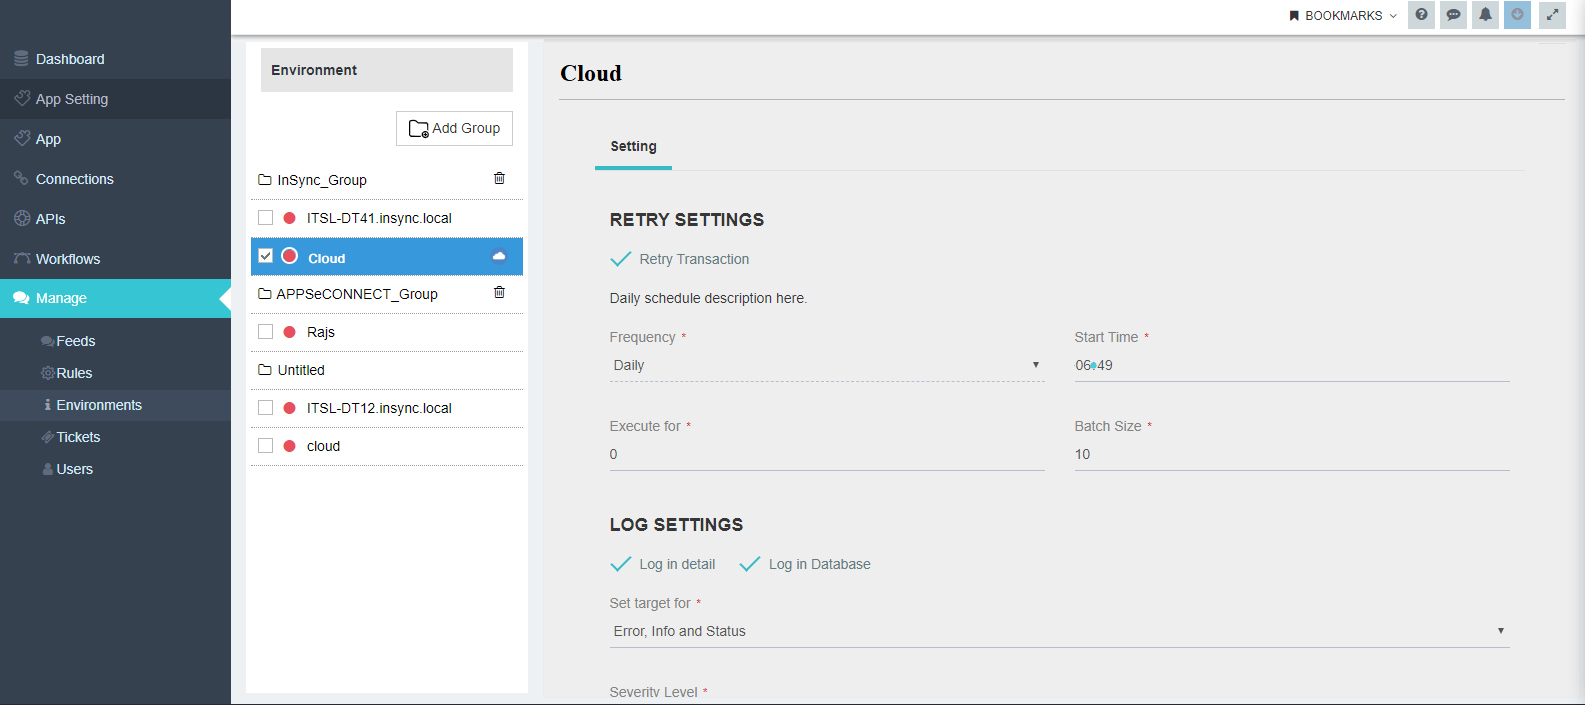
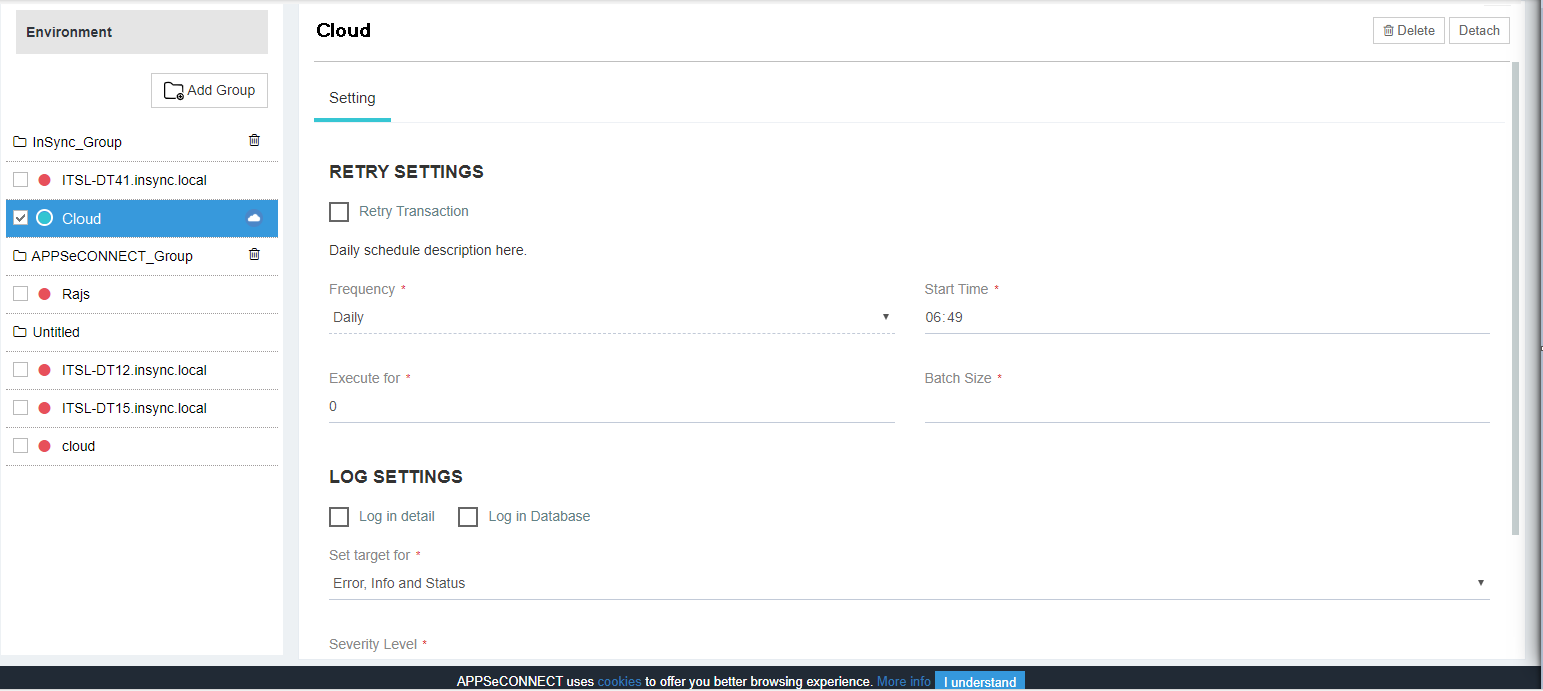
Updated environment page

diff --git a/_site/index.html b/_site/index.html
@@ -272,8 +272,8 @@
 <ul class="nav__items">
     
     
-    <li class="menu-item-" data-url="/connectors/overview-of-application-connectors/" data-jstree='{"icon":"fa fa-file-word-o"}'>
-        <a href="/connectors/overview-of-application-connectors/" onclick="selectTab('/connectors/overview-of-application-connectors/', event);" title="Go to Application">Application</a>
+    <li class="menu-item-" data-url="/connectors/Overview-of-Application-Connectors/" data-jstree='{"icon":"fa fa-file-word-o"}'>
+        <a href="/connectors/Overview-of-Application-Connectors/" onclick="selectTab('/connectors/Overview-of-Application-Connectors/', event);" title="Go to Application">Application</a>
         
         
         
@@ -286,8 +286,8 @@
     </li>
     
     
-    <li class="menu-item-" data-url="/connectors/magento2/" data-jstree='{"icon":"fa fa-gg"}'>
-        <a href="/connectors/magento2/" onclick="selectTab('/connectors/magento2/', event);" title="Go to Magento2">Magento2</a>
+    <li class="menu-item-" data-url="/connectors/Magento2/" data-jstree='{"icon":"fa fa-gg"}'>
+        <a href="/connectors/Magento2/" onclick="selectTab('/connectors/Magento2/', event);" title="Go to Magento2">Magento2</a>
         
     </li>
     
@@ -304,14 +304,14 @@
     </li>
     
     
-    <li class="menu-item-" data-url="/connectors/shopify/" data-jstree='{"icon":"fa fa-file-word-o"}'>
-        <a href="/connectors/shopify/" onclick="selectTab('/connectors/shopify/', event);" title="Go to Shopify">Shopify</a>
+    <li class="menu-item-" data-url="/connectors/Shopify/" data-jstree='{"icon":"fa fa-file-word-o"}'>
+        <a href="/connectors/Shopify/" onclick="selectTab('/connectors/Shopify/', event);" title="Go to Shopify">Shopify</a>
         
     </li>
     
     
-    <li class="menu-item-" data-url="/connectors/priority/" data-jstree='{"icon":"fa fa-file-word-o"}'>
-        <a href="/connectors/priority/" onclick="selectTab('/connectors/priority/', event);" title="Go to Priority">Priority</a>
+    <li class="menu-item-" data-url="/connectors/Priority/" data-jstree='{"icon":"fa fa-file-word-o"}'>
+        <a href="/connectors/Priority/" onclick="selectTab('/connectors/Priority/', event);" title="Go to Priority">Priority</a>
         
         
         
@@ -335,14 +335,14 @@
     </li>
     
     
-    <li class="menu-item-" data-url="/connectors/uniconta/" data-jstree='{"icon":"fa fa-gg"}'>
-        <a href="/connectors/uniconta/" onclick="selectTab('/connectors/uniconta/', event);" title="Go to Uniconta">Uniconta</a>
+    <li class="menu-item-" data-url="/connectors/Uniconta/" data-jstree='{"icon":"fa fa-gg"}'>
+        <a href="/connectors/Uniconta/" onclick="selectTab('/connectors/Uniconta/', event);" title="Go to Uniconta">Uniconta</a>
         
     </li>
     
     
-    <li class="menu-item-" data-url="/connectors/zohocrmv2/" data-jstree='{"icon":"fa fa-gg"}'>
-        <a href="/connectors/zohocrmv2/" onclick="selectTab('/connectors/zohocrmv2/', event);" title="Go to ZohoCRM V2.0">ZohoCRM V2.0</a>
+    <li class="menu-item-" data-url="/connectors/Zohocrmv2/" data-jstree='{"icon":"fa fa-gg"}'>
+        <a href="/connectors/Zohocrmv2/" onclick="selectTab('/connectors/Zohocrmv2/', event);" title="Go to ZohoCRM V2.0">ZohoCRM V2.0</a>
         
         
         
@@ -491,8 +491,8 @@
     </li>
     
     
-    <li class="menu-item-" data-url="/connectors/sage300/" data-jstree='{"icon":"fa fa-file-word-o"}'>
-        <a href="/connectors/sage300/" onclick="selectTab('/connectors/sage300/', event);" title="Go to Sage300">Sage300</a>
+    <li class="menu-item-" data-url="/connectors/Sage300/" data-jstree='{"icon":"fa fa-file-word-o"}'>
+        <a href="/connectors/Sage300/" onclick="selectTab('/connectors/Sage300/', event);" title="Go to Sage300">Sage300</a>
         
         
         

diff --git a/_site/assets/js/lunr-en.js b/_site/assets/js/lunr-en.js
@@ -3110,7 +3110,7 @@ var store = [
       
       {
         "title": "Overview of Application Connectors",
-        "url": "/connectors/overview-of-application-connectors/",
+        "url": "/connectors/Overview-of-Application-Connectors/",
         "excerpt": "An Application connectors are Pre-built optimized solution developed by APPSeCONNECT backend developer team and tested in real-life scenarios. If you...",
         "teaser":
           
@@ -3121,7 +3121,7 @@ var store = [
       
       {
         "title": "Priority",
-        "url": "/connectors/priority/",
+        "url": "/connectors/Priority/",
         "excerpt": "Application configuration is an integral activity prior to the process of integration. If your chosen application is Priority, such as...",
         "teaser":
           
@@ -3132,7 +3132,7 @@ var store = [
       
       {
         "title": "Shopify",
-        "url": "/connectors/shopify/",
+        "url": "/connectors/Shopify/",
         "excerpt": "Application configuration is an integral activity prior to the process of integration. If your choosen application is Shopify, such as...",
         "teaser":
           
@@ -3165,7 +3165,7 @@ var store = [
       
       {
         "title": "Magento2",
-        "url": "/connectors/magento2/",
+        "url": "/connectors/Magento2/",
         "excerpt": "Application configuration is an integral activity prior to the process of integration. If your choosen application is Magento 2, providing...",
         "teaser":
           
@@ -3407,7 +3407,7 @@ var store = [
       
       {
         "title": "Uniconta",
-        "url": "/connectors/uniconta/",
+        "url": "/connectors/Uniconta/",
         "excerpt": "Application configuration is an integral activity prior to the process of integration. If your chosen application is Uniconta credentials need...",
         "teaser":
           
@@ -3418,7 +3418,7 @@ var store = [
       
       {
         "title": "ZohoCRM V2.0",
-        "url": "/connectors/zohocrmv2/",
+        "url": "/connectors/Zohocrmv2/",
         "excerpt": "Application configuration is an integral activity prior to the process of integration. If your chosen application is ZohoCRMV2 credentials need...",
         "teaser":
           
@@ -3726,7 +3726,7 @@ var store = [
       
       {
         "title": "Sage300",
-        "url": "/connectors/sage300/",
+        "url": "/connectors/Sage300/",
         "excerpt": "Application configuration is an integral activity prior to the process of integration. If your chosen application is SAGE 300, credentials...",
         "teaser":
           

diff --git a/_posts/Deployment/Environment Management/2018-11-20-Environment-Management.md b/_posts/Deployment/Environment Management/2018-11-20-Environment-Management.md
@@ -156,7 +156,7 @@ To unblock the environment, you must Attach that environment once again.
 
 **NOTE:**
 * Activate Autosync is restarted/active.
-* Delete and Detach feature is currently not available in Cloud Agent.
+* Delete and Detach feature is available both for On-Premise & Cloud Agent.
 * Implementers and partners must note that once they [login with one organization credentials](/license-management/#usability-aspect-of-license-management) in one system, they won't be able to further login with different organization 
   credentials in the same system
 
